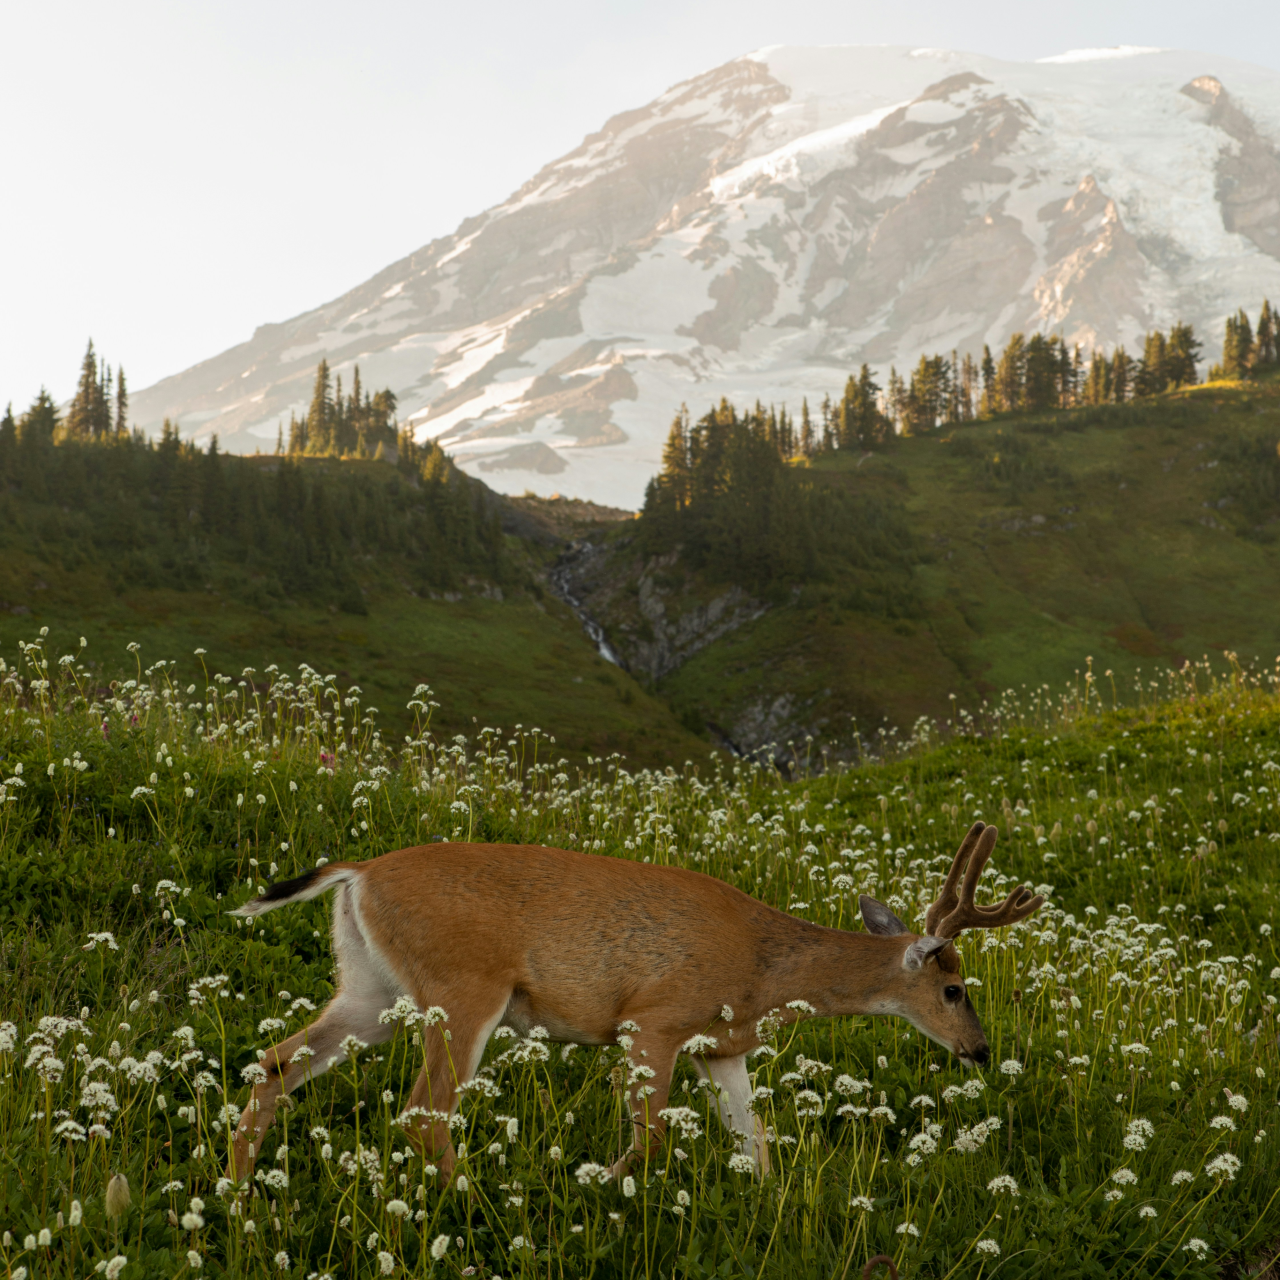
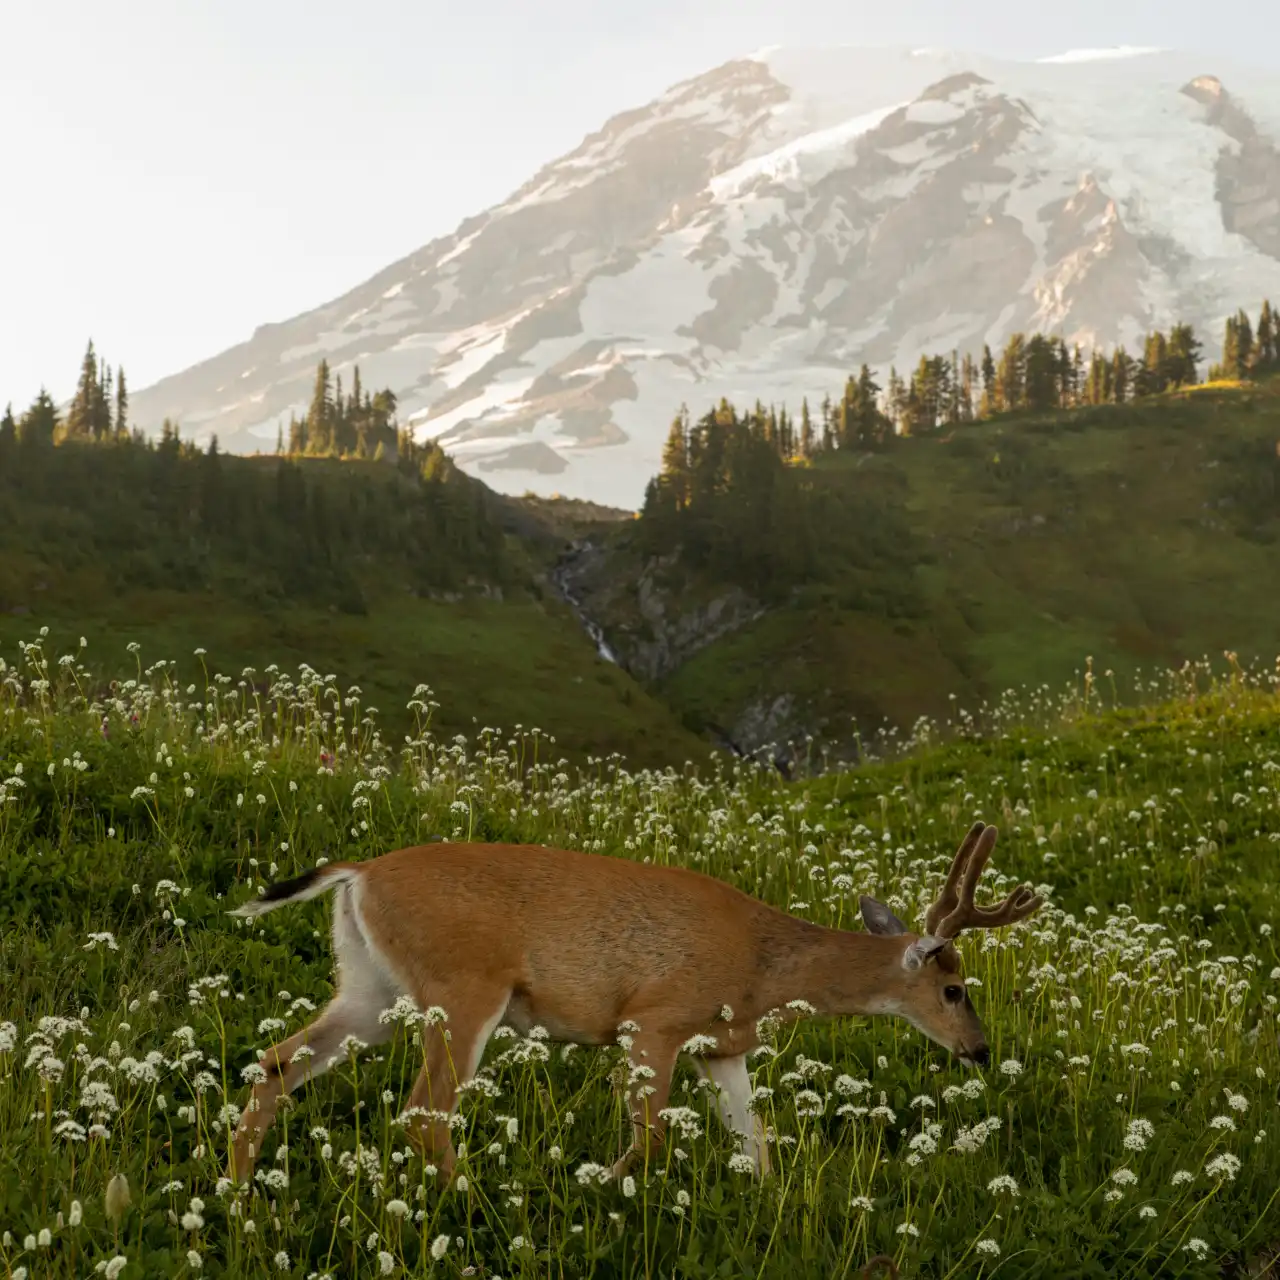
W03 Third Commit

diff --git a/place.html b/place.html
@@ -28,8 +28,8 @@
         <div class="hero">
             <picture>
                 <source srcset="images/hero-large.webp" media="(min-width: 1000px)">
-                <source srcset="images/hero-medium.webp" media="(min-width: 500px)">
-                <img src="images/hero-small.webp" alt="Hero Image" width="500" height="250">
+                <source srcset="images/hero-medium.webp" media="(min-width: 700px)">
+                <img src="images/hero-small.webp" alt="Deer eating grass" width="500" height="250">
             </picture>
         </div>
         <div class="data">

diff --git a/styles/place-large.css b/styles/place-large.css
@@ -1,4 +1,4 @@
-@media (min-width: 60em){
+@media (min-width: 1000px){
     .data{
         position: absolute;
         bottom: 360px;
